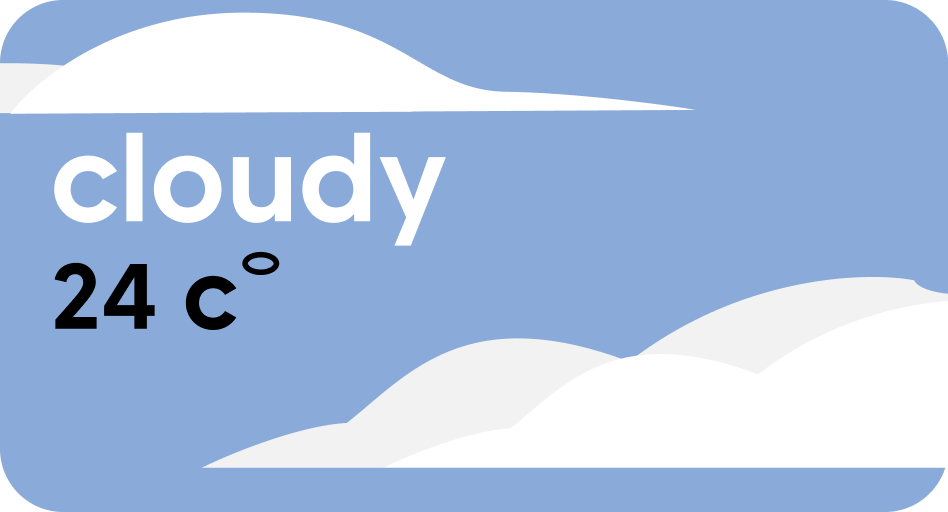
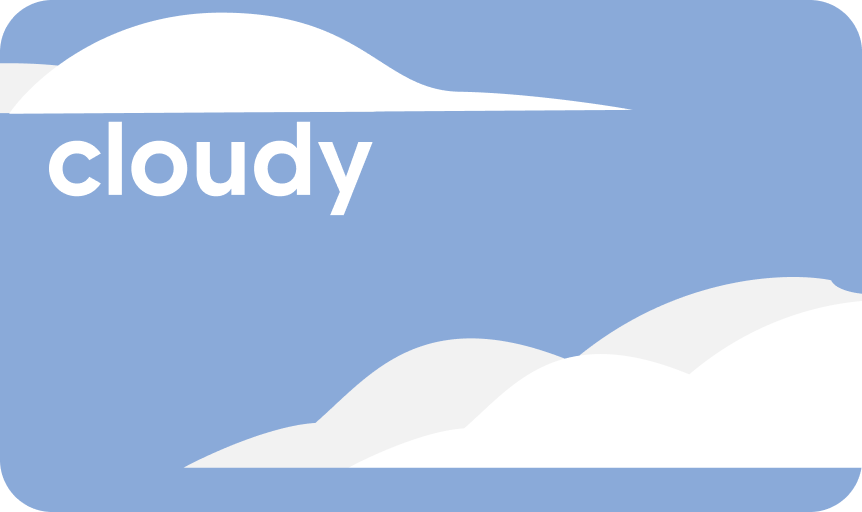
home page dust+weather dimension edits, metaphor background color edit, journal editor date and weather edit

diff --git a/src/component/home/Weather.js b/src/component/home/Weather.js
@@ -2,7 +2,9 @@ import React, { useState } from 'react';
 
 import { makeStyles } from '@material-ui/core/styles';
 
+const sunny = '/images/home/weather_cloudy.png'
 const cloudy = '/images/home/weather_cloudy.png'
+const rainy = '/images/home/weather_cloudy.png'
 
 const useStyles = makeStyles(theme => ({
   container: {
@@ -22,8 +24,9 @@ const useStyles = makeStyles(theme => ({
     backgroundColor: "darkgray",
     borderRadius: "10px",
     padding: "10px",
-    color: "white",
-    fontWeight: "bold"
+    color: "black",
+    fontWeight: "bold",
+    fontSize: "15px",
     // border: "solid 1px black"
   },
   status: {
@@ -50,7 +53,7 @@ export default function Weather(props) {
 
   const currentWeather = props.weather;
 
-  var style = (currentWeather === 1 ? { backgroundColor: "yellow", color: "black" } : currentWeather === 2 ? { backgroundColor: "lightblue" } : { backgroundColor: "darkblue" });
+  var style = (currentWeather === 1 ? { color: "black", backgroundSize: "100% 100%", backgroundImage: `url(${process.env.PUBLIC_URL + sunny})` } : currentWeather === 2 ? { color: "black", backgroundSize: "100% 100%", backgroundImage: `url(${process.env.PUBLIC_URL + cloudy})` } : { color: "black", backgroundSize: "100% 100%", backgroundImage: `url(${process.env.PUBLIC_URL + rainy})` });
   var weather = (currentWeather === 1 ? "sunny" : currentWeather === 2 ? "cloudy" : "rainy");
   var [temperature, setTemperature] = useState(currentWeather === 1 ? randomInt(20, 30) : currentWeather === 2 ? randomInt(15, 25) : randomInt(10, 20));
 

diff --git a/src/component/journal/JournalForm.js b/src/component/journal/JournalForm.js
@@ -112,6 +112,15 @@ function showWeather(weather) {
   )
 }
 
+function weatherIcon(weather) {
+  if(weather === "sunny") return "(sunny icon)"
+  //☀;
+  if(weather === "cloudy") return "(cloudy icon)"
+  //☁;
+  if(weather === "rainy") return "(rainy icon)"
+  //🌧;
+}
+
 function contentSuggestion(text) {
   const length = text.length;
   return (
@@ -223,13 +232,15 @@ export default function JournalForm({
             className={classes.textField}
           />
 
-          <div style={{ textAlign: "right" }}>
-            <Typography>{journal.date}</Typography>
-            <Typography>{journal.weather}</Typography>
-            {/* <Typography style={{ marginBottom: "10px" }}>Period: {journal.startTime.slice(undefined, journal.startTime.length - 4)} ~ {journal.endTime.slice(undefined, journal.endTime.length - 4)}</Typography> */}
-          </div>
+          
 
           <div>
+            <div style={{ position: "absolute", right: "10px" }}>
+              <Typography>{weatherIcon(journal.weather)} {journal.date}</Typography>
+              {/* <Typography>{journal.weather}</Typography> */}
+              {/* <Typography style={{ marginBottom: "10px" }}>Period: {journal.startTime.slice(undefined, journal.startTime.length - 4)} ~ {journal.endTime.slice(undefined, journal.endTime.length - 4)}</Typography> */}
+            </div>
+
             <Typography style={{ marginBottom: "10px" }}>Records</Typography>
             <StaticMap route={journal.route} />
 

diff --git a/src/component/home/Dust.js b/src/component/home/Dust.js
@@ -25,16 +25,23 @@ const useStyles = makeStyles(theme => ({
       padding: "10px",
       color: "white",
       fontWeight: "bold",
+      fontSize: "12px",
       // border: "solid 1px black"
     },
+    text: {
+      position: "relative",
+      display: "inline-block",
+      margin: "2px"
+    },
     status: {
+      position: "absolute",
+      right: "10px",
       display: "inline-block",
       color: "darkgray",
-      fontSize: "11px",
+      fontSize: "10px",
       backgroundColor: "white",
       padding: "3px 10px", 
       borderRadius: "10px",
-      float: "right",
     }
 }));
 
@@ -54,13 +61,13 @@ export default function Dust() {
       {/* <img src={dust} width="100%" alt="fine dust" /> */}
       <div className={classes.background}>
         <div>
-          fine dust
+          <div className={classes.text}>fine dust</div>
           <div className={classes.status}>{fineDustStatus}</div>
           <DustBar amount={fineDustAmount} percentage={fineDustAmount/200} />
         </div>
         <br/>
         <div>
-          ultra-fine dust
+          <div className={classes.text}>ultra-fine dust</div>
           <div className={classes.status}>{ultraFineDustStatus}</div>
           <DustBar amount={ultraFineDustAmount} percentage={ultraFineDustAmount/100}  />
         </div>

diff --git a/src/component/home/MetaphorTree.js b/src/component/home/MetaphorTree.js
@@ -6,7 +6,7 @@ const tree = '/images/home/metaphor_tree.png'
 const useStyles = makeStyles(theme => ({
     background: {
         position: "relative",
-        backgroundColor: "green",
+        background: "linear-gradient(45deg, #73A15D, #94C25A)",
         borderRadius: "10px",
         padding: "10px"
     },
@@ -36,7 +36,7 @@ export default function MetaphorTree(props) {
 
     return (
         <div className={classes.background}>
-            <img src={process.env.PUBLIC_URL +tree} alt="" className={classes.img} />
+            <img src={process.env.PUBLIC_URL + tree} alt="" className={classes.img} />
             <div className={classes.text}>You planted {amount*1.5} trees!</div>
         </div>
     )

diff --git a/src/container/Home.js b/src/container/Home.js
@@ -50,7 +50,8 @@ const useStyles = makeStyles({
   weatherContainer: {
     position: "relative",
     width: "100%",
-    height: "25%",
+    // height: "25%",
+    height: "135px"
     // border: "solid 1px black",
   },
   measuresContainer: {
@@ -80,7 +81,8 @@ const useStyles = makeStyles({
   buttonContainer: {
     position: "relative",
     width: "100%",
-    height: "15%",
+    height: "calc(40% - 135px)",
+    minHeight: "50px",
     // border: "solid 1px black",
   },
   button: {

diff --git a/src/component/home/MetaphorBurger.js b/src/component/home/MetaphorBurger.js
@@ -6,7 +6,7 @@ const burger = '/images/home/metaphor_burger.png'
 const useStyles = makeStyles(theme => ({
     background: {
         position: "relative",
-        backgroundColor: "orange",
+        background: "linear-gradient(45deg, #EED28B, #DB7E61)",
         borderRadius: "10px",
         padding: "10px"
     },

diff --git a/src/component/home/MetaphorTaxi.js b/src/component/home/MetaphorTaxi.js
@@ -6,7 +6,7 @@ const taxi = '/images/home/metaphor_taxi.png'
 const useStyles = makeStyles(theme => ({
     background: {
         position: "relative",
-        backgroundColor: "pink",
+        background: "linear-gradient(45deg, #A0BFE3, #F0A2B0)",
         borderRadius: "10px",
         padding: "10px"
     },

diff --git a/src/component/home/DustBar.js b/src/component/home/DustBar.js
@@ -21,9 +21,10 @@ const useStyles = makeStyles(theme => ({
       borderRadius: "10px",
       color: "white",
       textAlign: "center",
-      fontSize: "11px",
+      fontSize: "10px",
       fontWeight: "bold",
       border: "solid 2px white",
+      paddingTop: "2px"
     },
 }));
 
